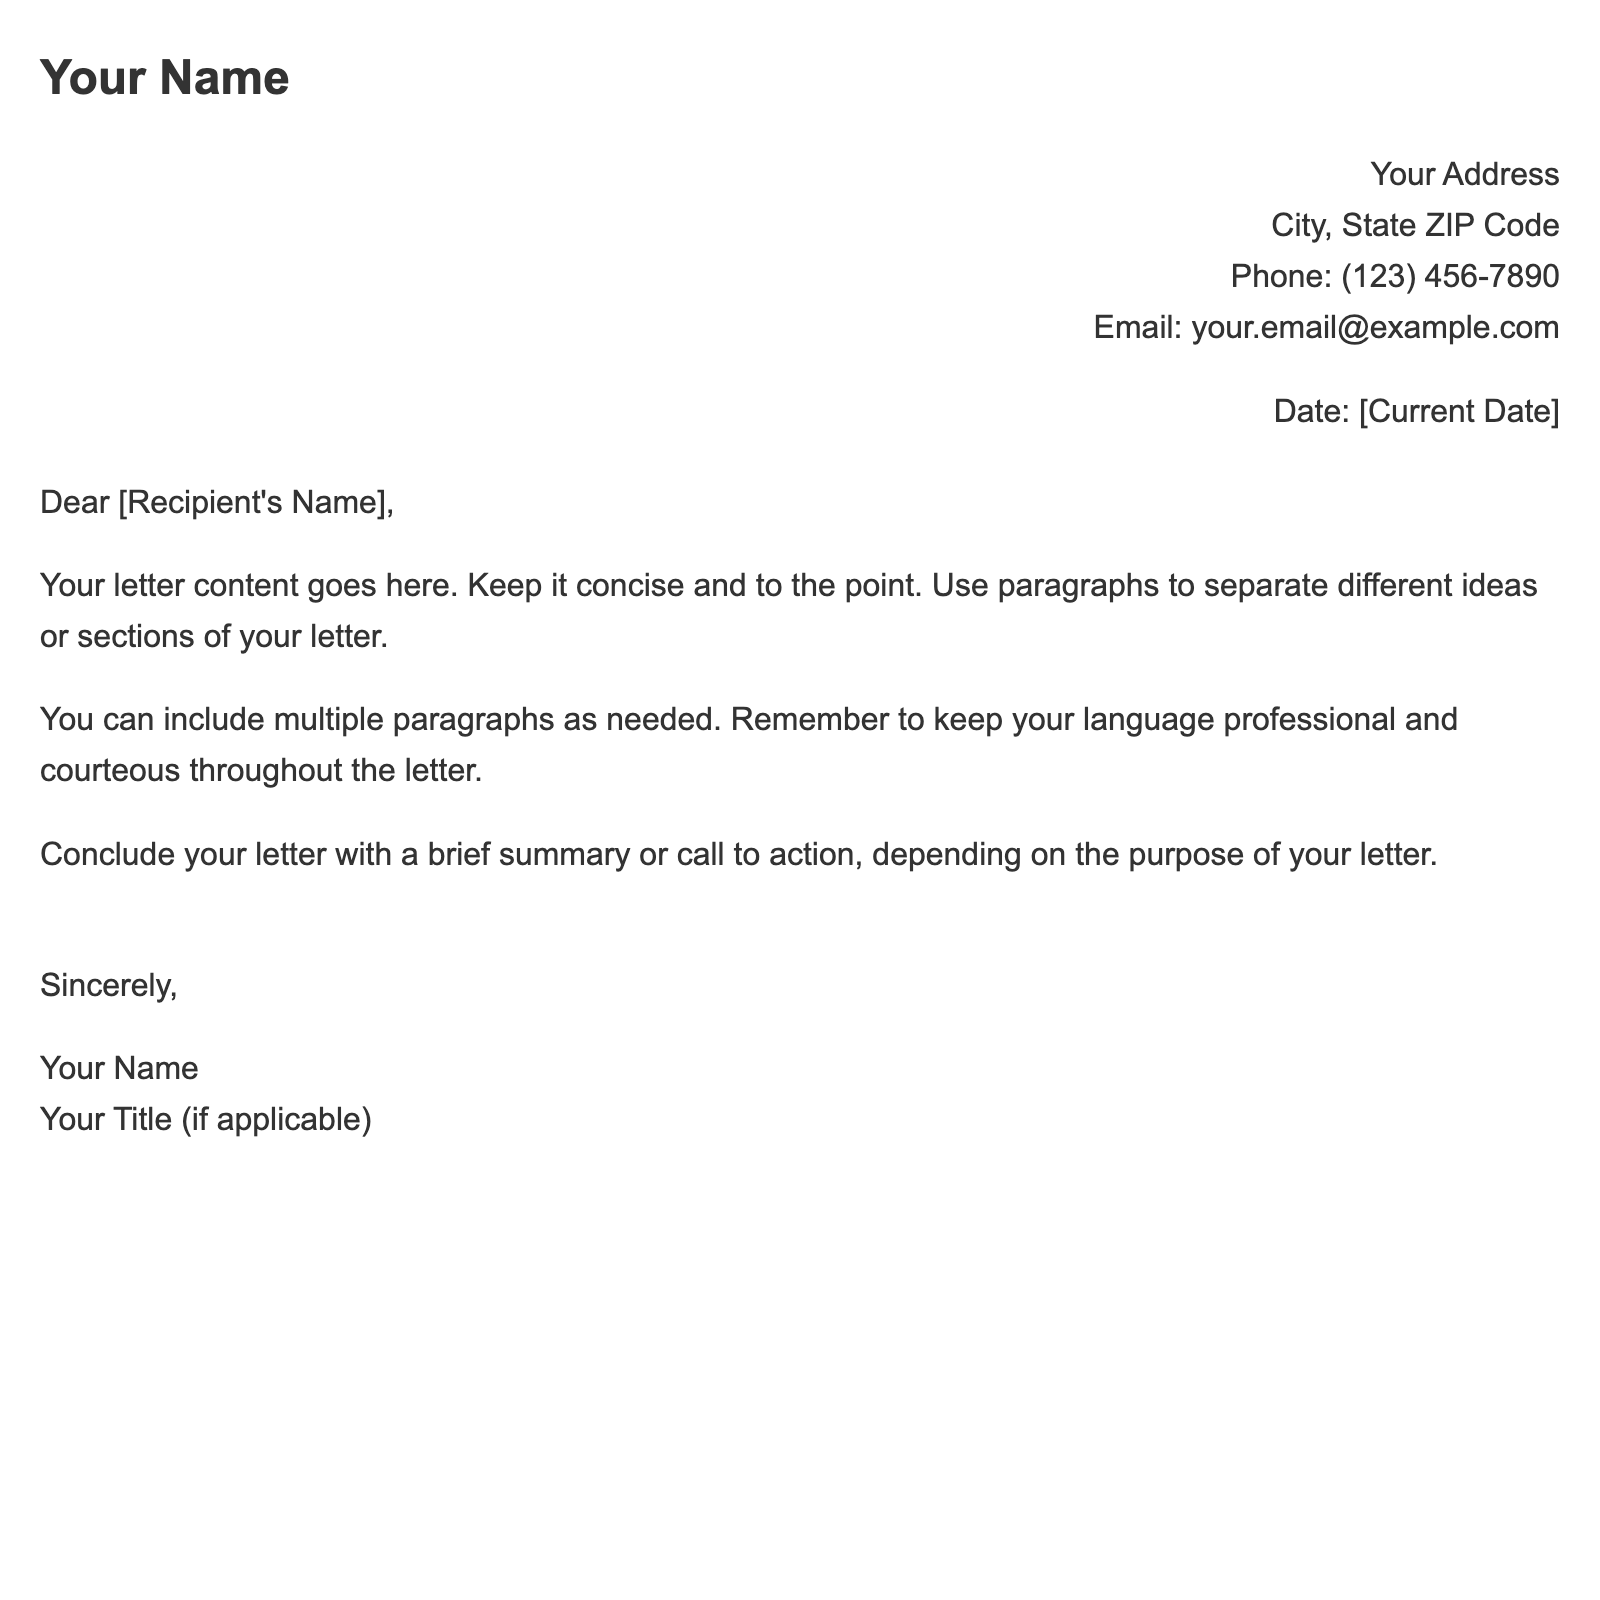
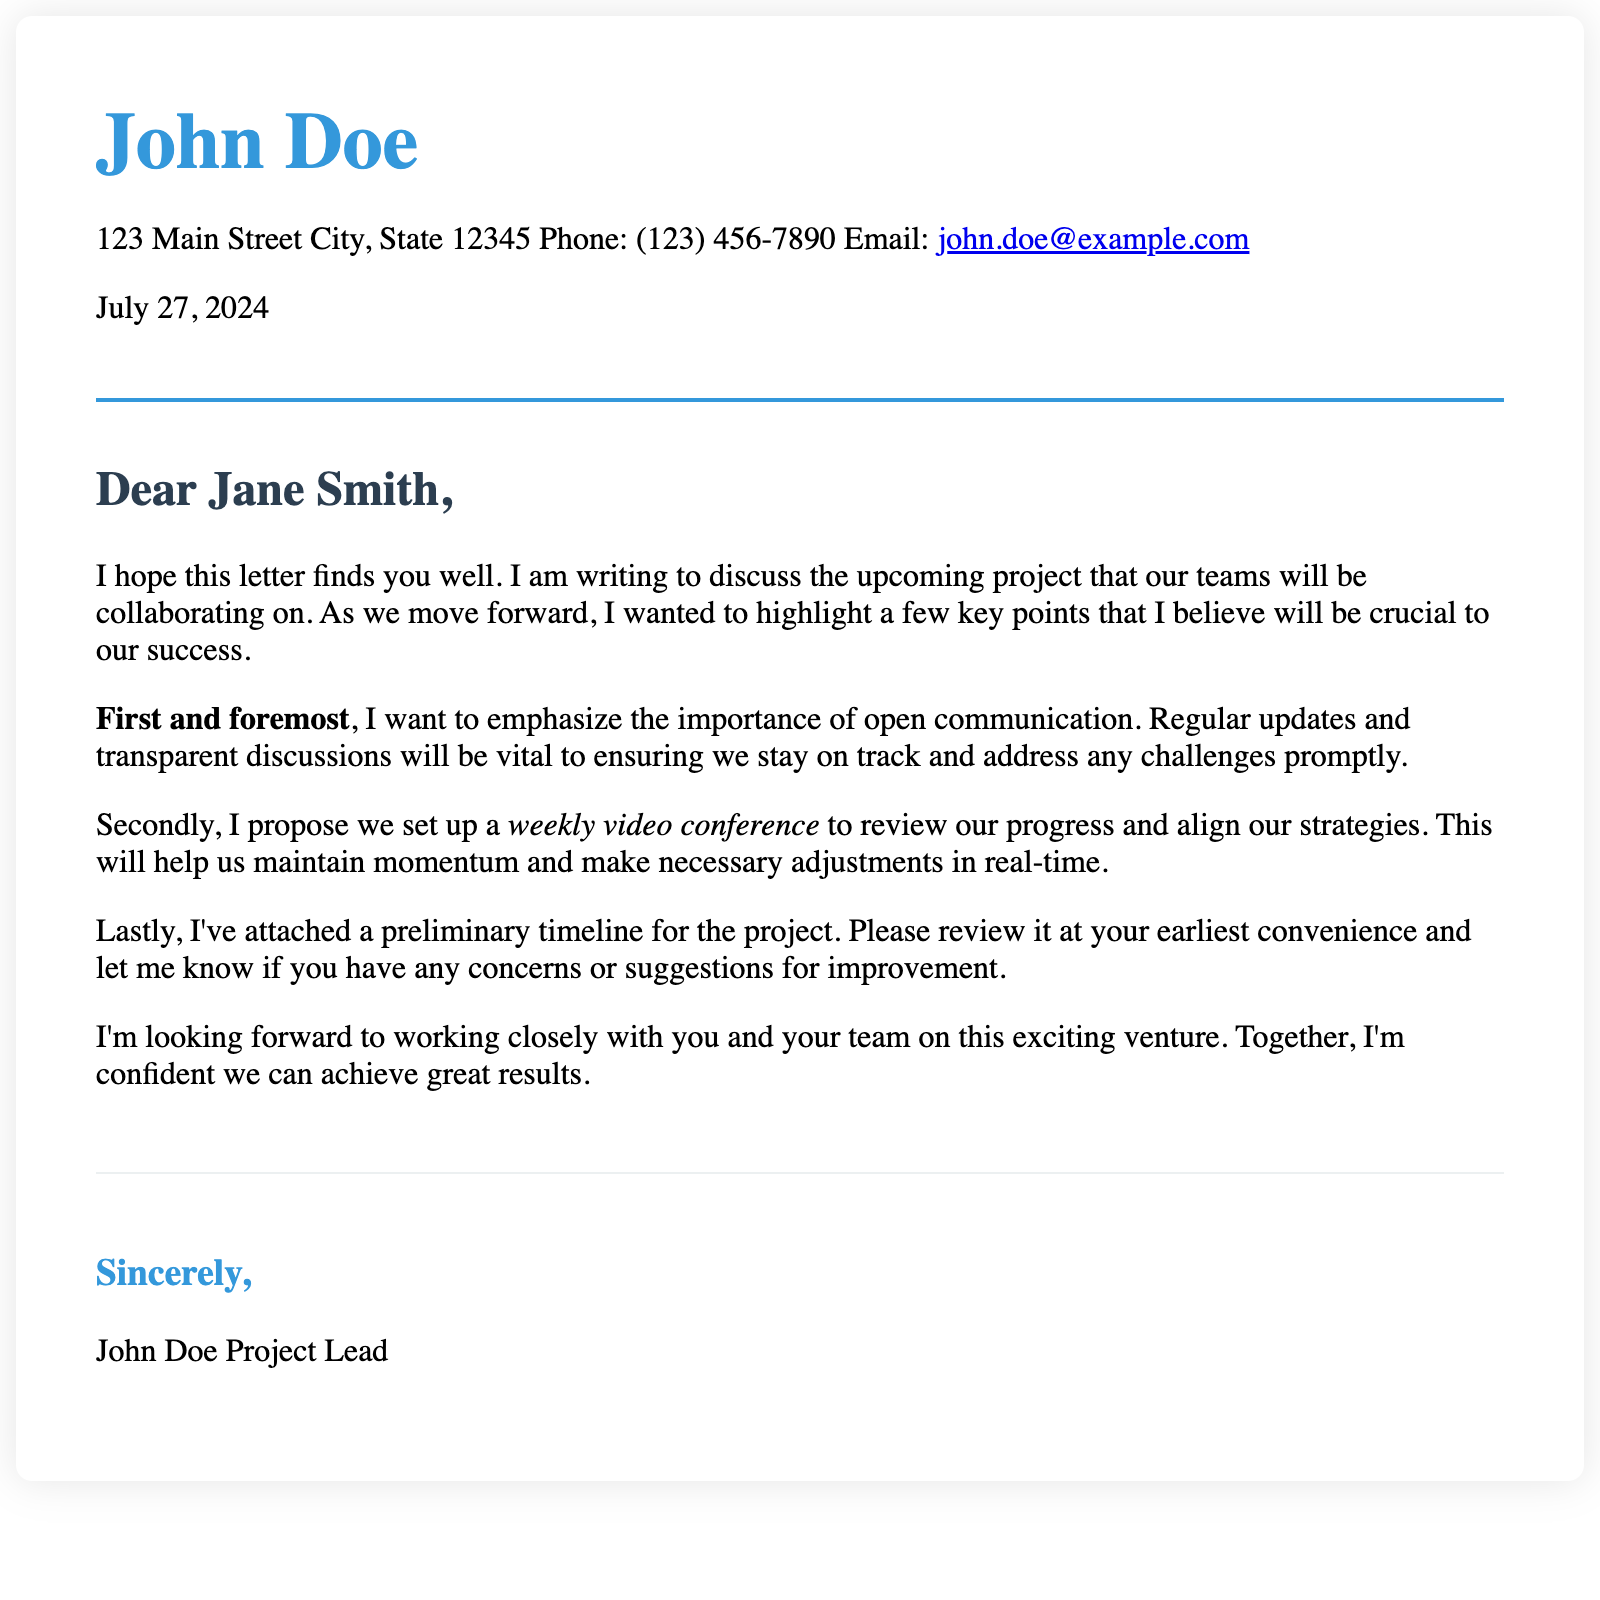
V 0.891

diff --git a/templates/Concise Letter II.html b/templates/Concise Letter II.html
@@ -11,16 +11,16 @@
     <meta name="template-instruction" content="Use '# Your Name' for the main title. Use regular paragraphs for address and date. Use '## Dear [Recipient],' for salutation. Main content should be in regular paragraphs. Use '**bold**' for emphasis and '*italic*' for subtle emphasis. Use '### Sincerely,' for the closing." />
     <title>Concise Letter II</title>
     <style>
-        body {
+        .page-body {
             font-family: 'Helvetica Neue', Arial, sans-serif;
             line-height: 1.6;
-            color: #333;
-            max-width: 800px;
-            margin: 0 auto;
-            padding: 40px;
-            background-color: #f9f9f9;
+            display: flex;
+            justify-content: center;
+            align-items: center;
+            height: 100vh;
+            box-shadow: 0 0 20px rgba(0, 0, 0, 0.1);
         }
-        .page-body {
+        .letter-container {
             background-color: #ffffff;
             padding: 40px;
             box-shadow: 0 0 20px rgba(0,0,0,0.1);
@@ -33,7 +33,7 @@
         }
         .letter-header h1 {
             margin: 0;
-            font-size: 2.5em;
+            font-size: 1.7em;
             color: #3498db;
         }
         .letter-body {
@@ -55,6 +55,7 @@
 </head>
 <body>
     <div class="page-body">
+        <div class="letter-container">
         <header class="letter-header input-field" name="Header">
 # John Doe
 
@@ -87,6 +88,7 @@ I'm looking forward to working closely with you and your team on this exciting v
 John Doe
 Project Lead
         </footer>
+    </div>
     </div>
     <script>
         document.addEventListener('DOMContentLoaded', function() {

diff --git a/index.html b/index.html
@@ -12,7 +12,7 @@
 <body>
     <nav id="nav-bar" class="navbar navbar-expand-sm navbar-light bg-light">
         <div class="container-fluid">
-            <a class="navbar-brand" href="#">MD to PDF</a>
+            <a class="navbar-brand" href="#">&nbsp; &nbsp; Styled-md</a>&nbsp; &nbsp; &nbsp;           
             <button class="navbar-toggler" type="button" data-bs-toggle="collapse" data-bs-target="#navbarNav" aria-controls="navbarNav" aria-expanded="false" aria-label="Toggle navigation">
                 <span class="navbar-toggler-icon"></span>
             </button>

diff --git a/templates/Concise Letter I.css b/templates/Concise Letter I.css
@@ -4,7 +4,6 @@
     justify-content: center;
     align-items: center;
     height: 100vh;
-    background-color: #f7f7f7;
     box-shadow: 0 0 20px rgba(0, 0, 0, 0.1);
 }
 
